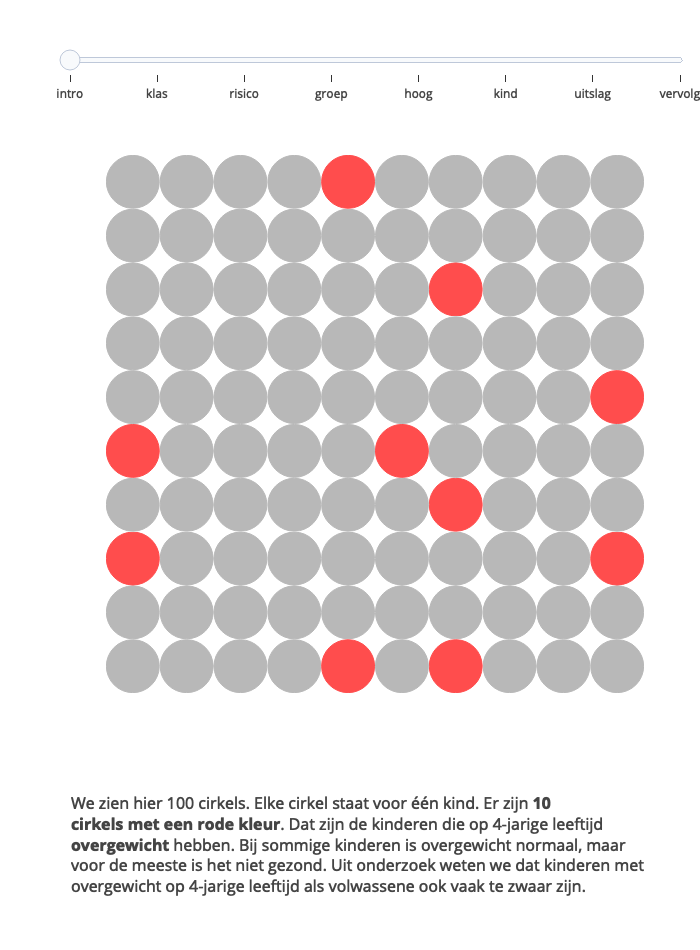
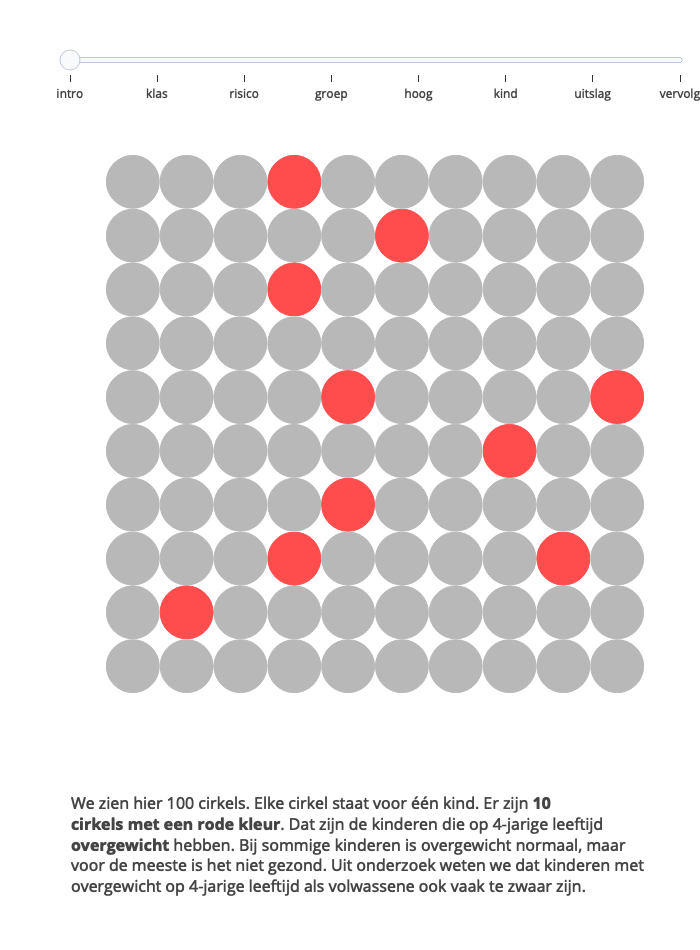
Update to tab10 0.4.0

diff --git a/README.md b/README.md
@@ -46,11 +46,11 @@ fig
 GitHub README does not allow animation. Install and run the above code
 locally.
 
-## Example very preterm birth
+## Example preterm birth (GA \< 37 weeks)
 
 ``` r
 library(tab10)
-fig <- create_tab10(name = "preterm-32w-1", palet = "redgrey")
+fig <- create_tab10(name = "preterm-37w-1", palet = "redgrey")
 fig
 ```
 

diff --git a/NEWS.md b/NEWS.md
@@ -1,6 +1,11 @@
+# tab10 0.4.0
+
+* Corrects the incorrect labeling of "very preterm" to "preterm" (GA < 37 weeks)
+* Renames outcome `preterm-32w` as `preterm-37w`
+
 # tab10 0.3.0
 
-* Add the outcome `preterm-32w`
+* Adds the outcome `preterm-32w`
 
 # tab10 0.2.0
 
